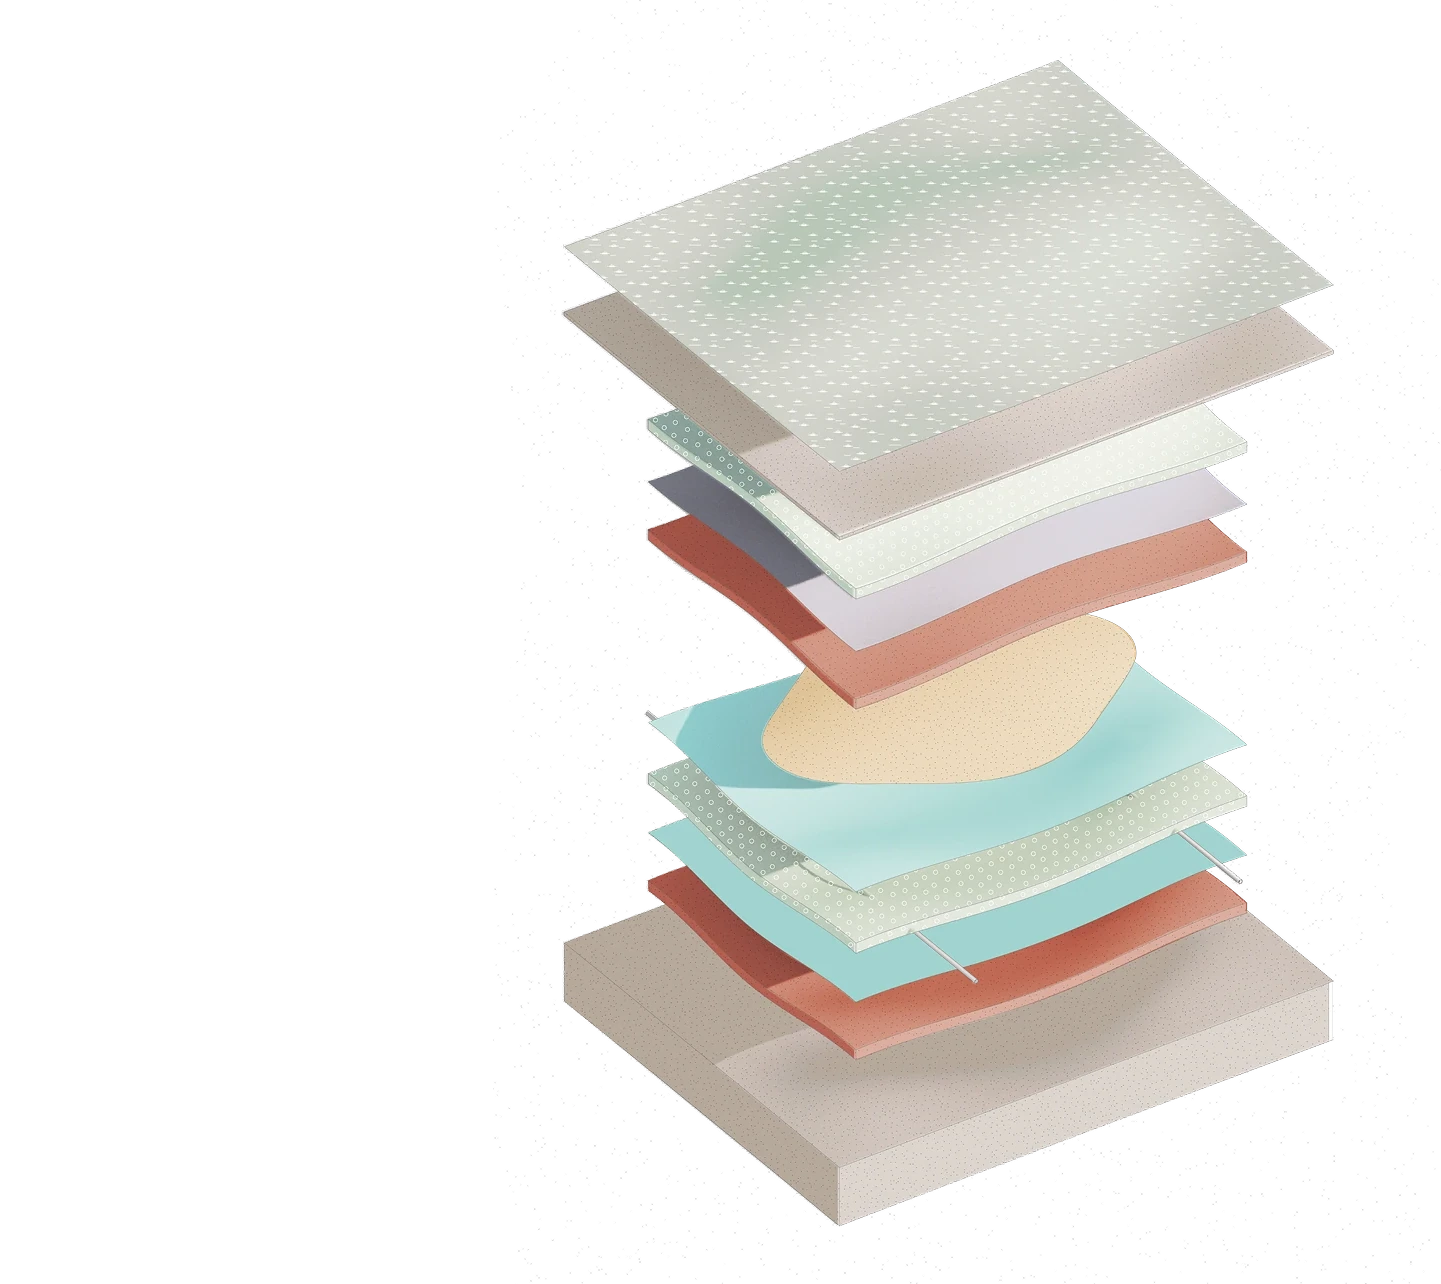
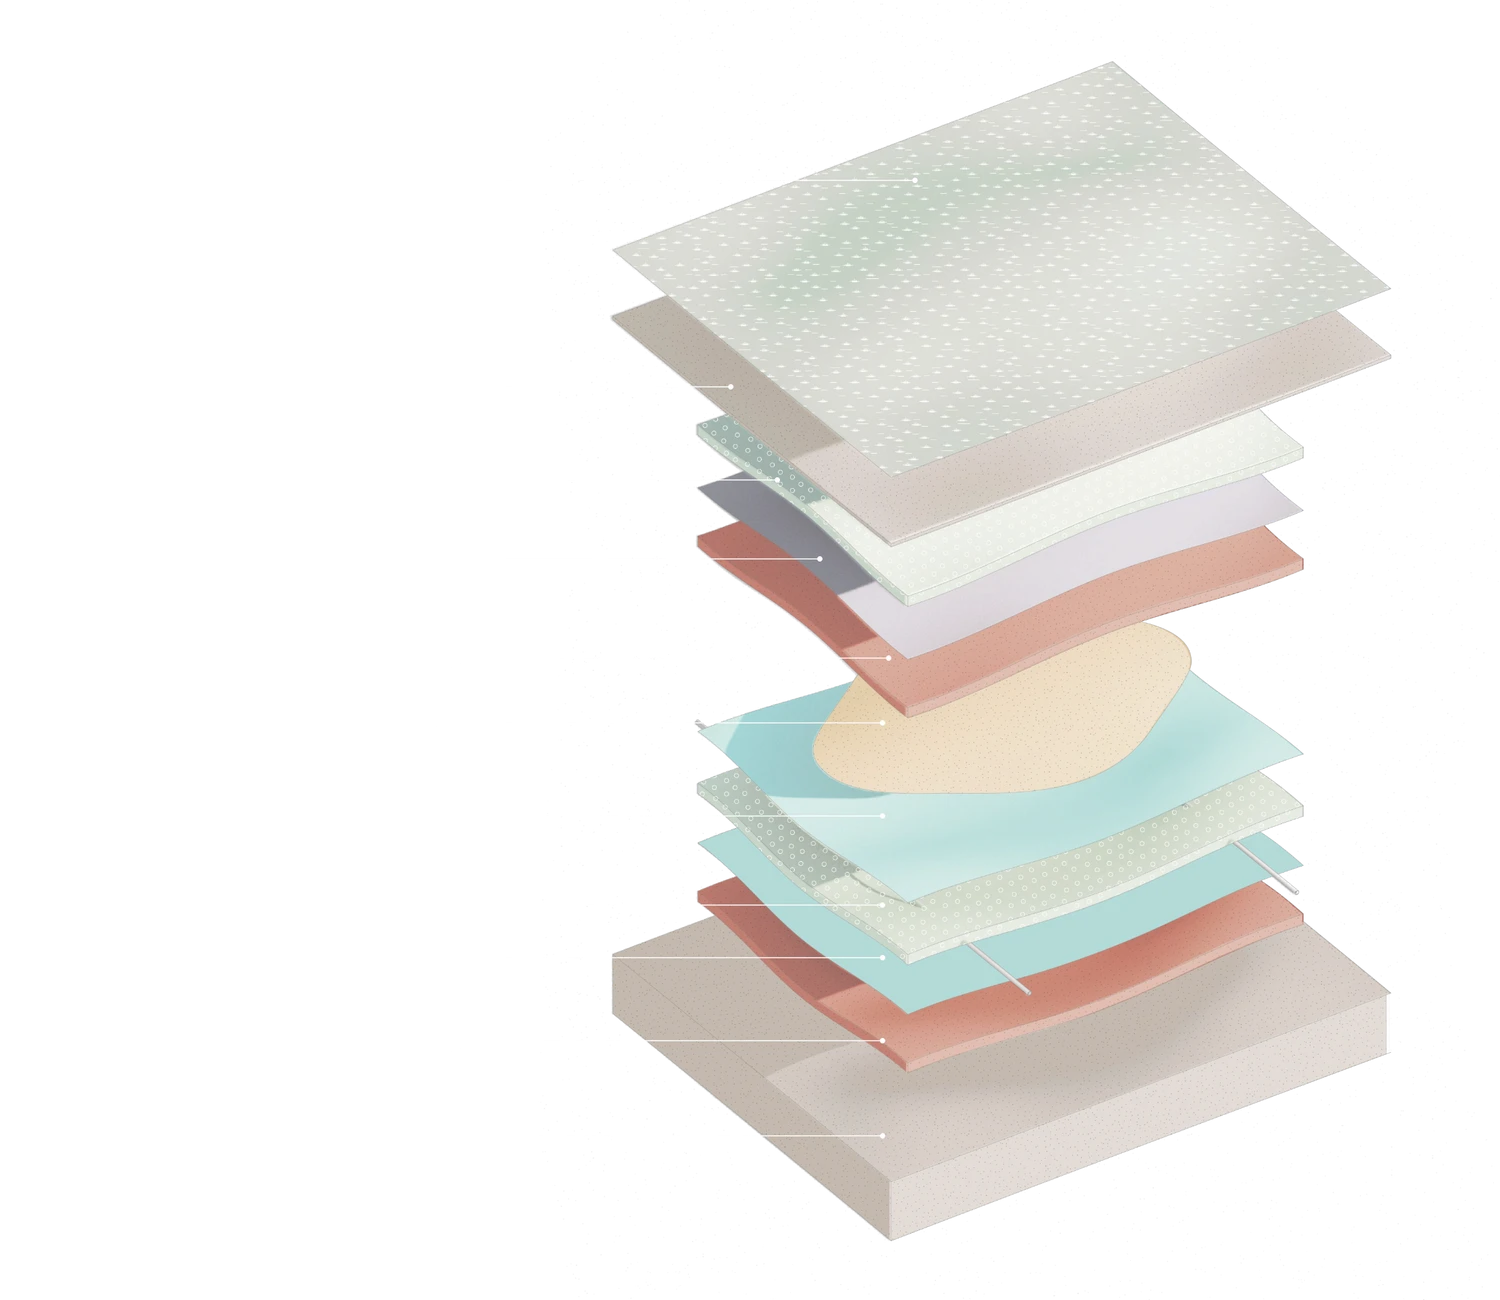
Use the designer's white-label export with baked leaders, HTML text
Final approach for the method diagrams, using the designer's new
transparent white-label export as ground truth:

- The leader LINES AND DOTS stay baked in the image exactly as drawn, so
  the endpoints are correct by construction and can never drift — this
  closes the "white line doesn't reach the black line's endpoint" issue
  for good (there is only one set of lines now).
- Only the label TEXT is erased at asset-build time (connected components
  boxed fully inside the label zone) and re-set as crisp, hoverable HTML
  at each baked leader's measured row. Label rows and line starts were
  measured off the same raster, so anchors are 1:1.
- pdf.js refuses to honour a transparent render background, so the true
  alpha channel is recovered by rendering the PDF twice (green and
  magenta grounds) and solving per-pixel for colour and alpha.
- The SVG leader/dot overlay and its CSS are gone; the component renders
  the image plus HTML labels only.

Claude-Session: https://claude.ai/code/session_0162ZbwK7cUKGE1rpfdzmk7Z

diff --git a/src/content/actions/methods.ts b/src/content/actions/methods.ts
@@ -1,12 +1,10 @@
 // Act II — the two retained methods, explained layer by layer with the
-// project's Rhino-modelled exploded axonometrics (the original transparent
-// exports, warm-toned). Every leader's y / endpoint below was MEASURED off
-// the designer's labelled Figma export, then mapped onto this artwork via
-// the two exports' solid-pixel bounding boxes (aspect ratios agree to ~0.1%,
-// alignment verified by overlay), so the lines land exactly where the
-// designer put them while the labels stay crisp, hoverable HTML text.
-// Coordinates are % of the image canvas (artwork + transparent left gutter
-// for the labels), which the diagram wrapper reproduces exactly.
+// project's Rhino-modelled exploded axonometrics. The image is the designer's
+// own white-label export (transparent ground) with the leader LINES AND DOTS
+// KEPT BAKED — endpoints are exact by construction and cannot drift — while
+// the label text was erased at asset-build time and re-set as crisp,
+// hoverable HTML at each leader's measured row. Coordinates are % of the
+// image canvas, which the diagram wrapper reproduces exactly.
 
 import landfillImg from '../../assets/actions/diagram-landfill.webp'
 import thermalImg from '../../assets/actions/diagram-thermal.webp'
@@ -15,10 +13,8 @@ import thermalPhoto from '../../assets/actions/photo-thermal.webp'
 
 export interface MethodLayer {
   text: string
-  /** Leader y, % of canvas height. */
+  /** Leader row, % of canvas height (measured off the baked line). */
   y: number
-  /** Leader endpoint (dot centre), % of canvas width. */
-  endX: number
 }
 
 export interface Method {
@@ -34,7 +30,7 @@ export interface Method {
   imgAlt: string
   /** Canvas aspect ratio (w/h) — the diagram wrapper reproduces it. */
   aspect: number
-  /** Where every leader line starts (labels right-align just left of it). */
+  /** Where the baked leader lines start; labels right-align just left of it. */
   labelX: number
   layers: MethodLayer[]
 }
@@ -55,21 +51,21 @@ export const METHODS: Method[] = [
     img: landfillImg,
     photo: landfillPhoto,
     imgAlt:
-      'Exploded axonometric of the passive landfill, top to bottom: grass, soil, geocomposite layer, plastic (LLDPE) geomembrane, clay, the contaminant, plastic geomembrane, geocomposite layer, plastic geomembrane, clay, and the compacted soil subgrade.',
-    aspect: 1.1223,
-    labelX: 33.5,
+      'Exploded axonometric of the passive landfill, top to bottom: grass cap, soil, geocomposite layer, plastic (LLDPE) geomembrane, clay, the contaminant, plastic geomembrane, geocomposite layer, plastic geomembrane, clay, and the compacted soil subgrade.',
+    aspect: 1.1542,
+    labelX: 33.7,
     layers: [
-      { text: 'Grass cap', y: 13.76, endX: 51.94 },
-      { text: 'Soil', y: 29.68, endX: 45.41 },
-      { text: 'Geocomposite layer', y: 36.86, endX: 46.67 },
-      { text: 'Plastic (LLDPE) geomembrane', y: 42.95, endX: 46.4 },
-      { text: 'Clay', y: 50.6, endX: 55.26 },
-      { text: 'Contaminant', y: 55.62, endX: 45.57 },
-      { text: 'Plastic (LLDPE) geomembrane', y: 62.78, endX: 47.73 },
-      { text: 'Geocomposite layer', y: 69.64, endX: 45.8 },
-      { text: 'Plastic (LLDPE) geomembrane', y: 73.7, endX: 40.08 },
-      { text: 'Clay', y: 80.1, endX: 42.15 },
-      { text: 'Compacted soil subgrade', y: 87.44, endX: 50.15 },
+      { text: 'Grass cap', y: 13.84 },
+      { text: 'Soil', y: 29.72 },
+      { text: 'Geocomposite layer', y: 36.89 },
+      { text: 'Plastic (LLDPE) geomembrane', y: 42.96 },
+      { text: 'Clay', y: 50.6 },
+      { text: 'Contaminant', y: 55.58 },
+      { text: 'Plastic (LLDPE) geomembrane', y: 62.75 },
+      { text: 'Geocomposite layer', y: 69.6 },
+      { text: 'Plastic (LLDPE) geomembrane', y: 73.65 },
+      { text: 'Clay', y: 80.04 },
+      { text: 'Compacted soil subgrade', y: 87.36 },
     ],
   },
   {
@@ -82,20 +78,20 @@ export const METHODS: Method[] = [
     photo: thermalPhoto,
     imgAlt:
       'Exploded axonometric of the thermal treatment pile, top to bottom: sand, offgas collecting pipe, heater well, metal sheet, the contaminant, metal sheet, sand, crushed stone, plastic liner, soil, and the brick pile base.',
-    aspect: 1.1026,
-    labelX: 33.5,
+    aspect: 1.1101,
+    labelX: 34.0,
     layers: [
-      { text: 'Sand', y: 15.56, endX: 50.83 },
-      { text: 'Offgas collecting pipe', y: 22.49, endX: 50.95 },
-      { text: 'Heater well', y: 29.72, endX: 47.93 },
-      { text: 'Metal sheet', y: 35.3, endX: 46.89 },
-      { text: 'Contaminant', y: 41.93, endX: 48.74 },
-      { text: 'Metal sheet', y: 51.27, endX: 49.25 },
-      { text: 'Sand', y: 56.55, endX: 48.61 },
-      { text: 'Crushed stone', y: 63.47, endX: 48.62 },
-      { text: 'Plastic liner', y: 68.9, endX: 41.81 },
-      { text: 'Soil', y: 74.06, endX: 59.0 },
-      { text: 'Brick pile', y: 81.41, endX: 42.75 },
+      { text: 'Sand', y: 15.51 },
+      { text: 'Offgas collecting pipe', y: 22.45 },
+      { text: 'Heater well', y: 29.69 },
+      { text: 'Metal sheet', y: 35.27 },
+      { text: 'Contaminant', y: 41.91 },
+      { text: 'Metal sheet', y: 51.26 },
+      { text: 'Sand', y: 56.54 },
+      { text: 'Crushed stone', y: 63.47 },
+      { text: 'Plastic liner', y: 68.9 },
+      { text: 'Soil', y: 74.03 },
+      { text: 'Brick pile', y: 81.42 },
     ],
   },
 ]

diff --git a/src/components/MethodsSection.tsx b/src/components/MethodsSection.tsx
@@ -3,9 +3,10 @@ import { METHODS, METHODS_HEAD, type Method } from '../content/actions/methods'
 
 type Key = Method['key']
 
-// Bare artwork + HTML labels and SVG leaders at coordinates measured off the
-// designer's own labelled export. The wrapper reproduces the artwork canvas
-// exactly (same aspect ratio, image fills it), so % coordinates are 1:1.
+// The designer's own artwork with leader lines and dots baked in (endpoints
+// exact by construction); only the label text is HTML, anchored at each baked
+// leader's measured row. The wrapper reproduces the image canvas exactly
+// (same aspect ratio, image fills it), so % coordinates are 1:1.
 function Diagram({ m }: { m: Method }) {
   const [hot, setHot] = useState<number | null>(null)
   return (
@@ -14,26 +15,6 @@ function Diagram({ m }: { m: Method }) {
       style={{ aspectRatio: String(m.aspect), width: `min(100%, ${Math.round(540 * m.aspect)}px)` }}
     >
       <img src={m.img} alt={m.imgAlt} loading="lazy" />
-      <svg className="method-lines" viewBox="0 0 100 100" preserveAspectRatio="none" aria-hidden="true">
-        {m.layers.map((l, i) => (
-          <line
-            key={i}
-            className={hot === i ? 'is-hot' : undefined}
-            x1={m.labelX}
-            y1={l.y}
-            x2={l.endX}
-            y2={l.y}
-          />
-        ))}
-      </svg>
-      {m.layers.map((l, i) => (
-        <i
-          key={i}
-          className={`method-dot${hot === i ? ' is-hot' : ''}`}
-          style={{ left: `${l.endX}%`, top: `${l.y}%` }}
-          aria-hidden="true"
-        />
-      ))}
       <ul className="method-labels">
         {m.layers.map((l, i) => (
           <li

diff --git a/src/pages/Story.css b/src/pages/Story.css
@@ -3155,37 +3155,6 @@
   filter: drop-shadow(0 10px 28px rgba(0, 0, 0, 0.22));
 }
 
-.method-lines {
-  position: absolute;
-  inset: 0;
-  width: 100%;
-  height: 100%;
-  pointer-events: none;
-}
-.method-lines line {
-  stroke: rgba(255, 255, 255, 0.55);
-  stroke-width: 1.1;
-  vector-effect: non-scaling-stroke;
-  transition: stroke 0.15s;
-}
-.method-lines line.is-hot {
-  stroke: #fff;
-  stroke-width: 1.8;
-}
-.method-dot {
-  position: absolute;
-  width: 6px;
-  height: 6px;
-  transform: translate(-50%, -50%);
-  border-radius: 50%;
-  background: rgba(255, 255, 255, 0.9);
-  transition: background 0.15s, transform 0.15s;
-}
-.method-dot.is-hot {
-  background: #fff;
-  transform: translate(-50%, -50%) scale(1.5);
-}
-
 .method-labels {
   list-style: none;
   margin: 0;
